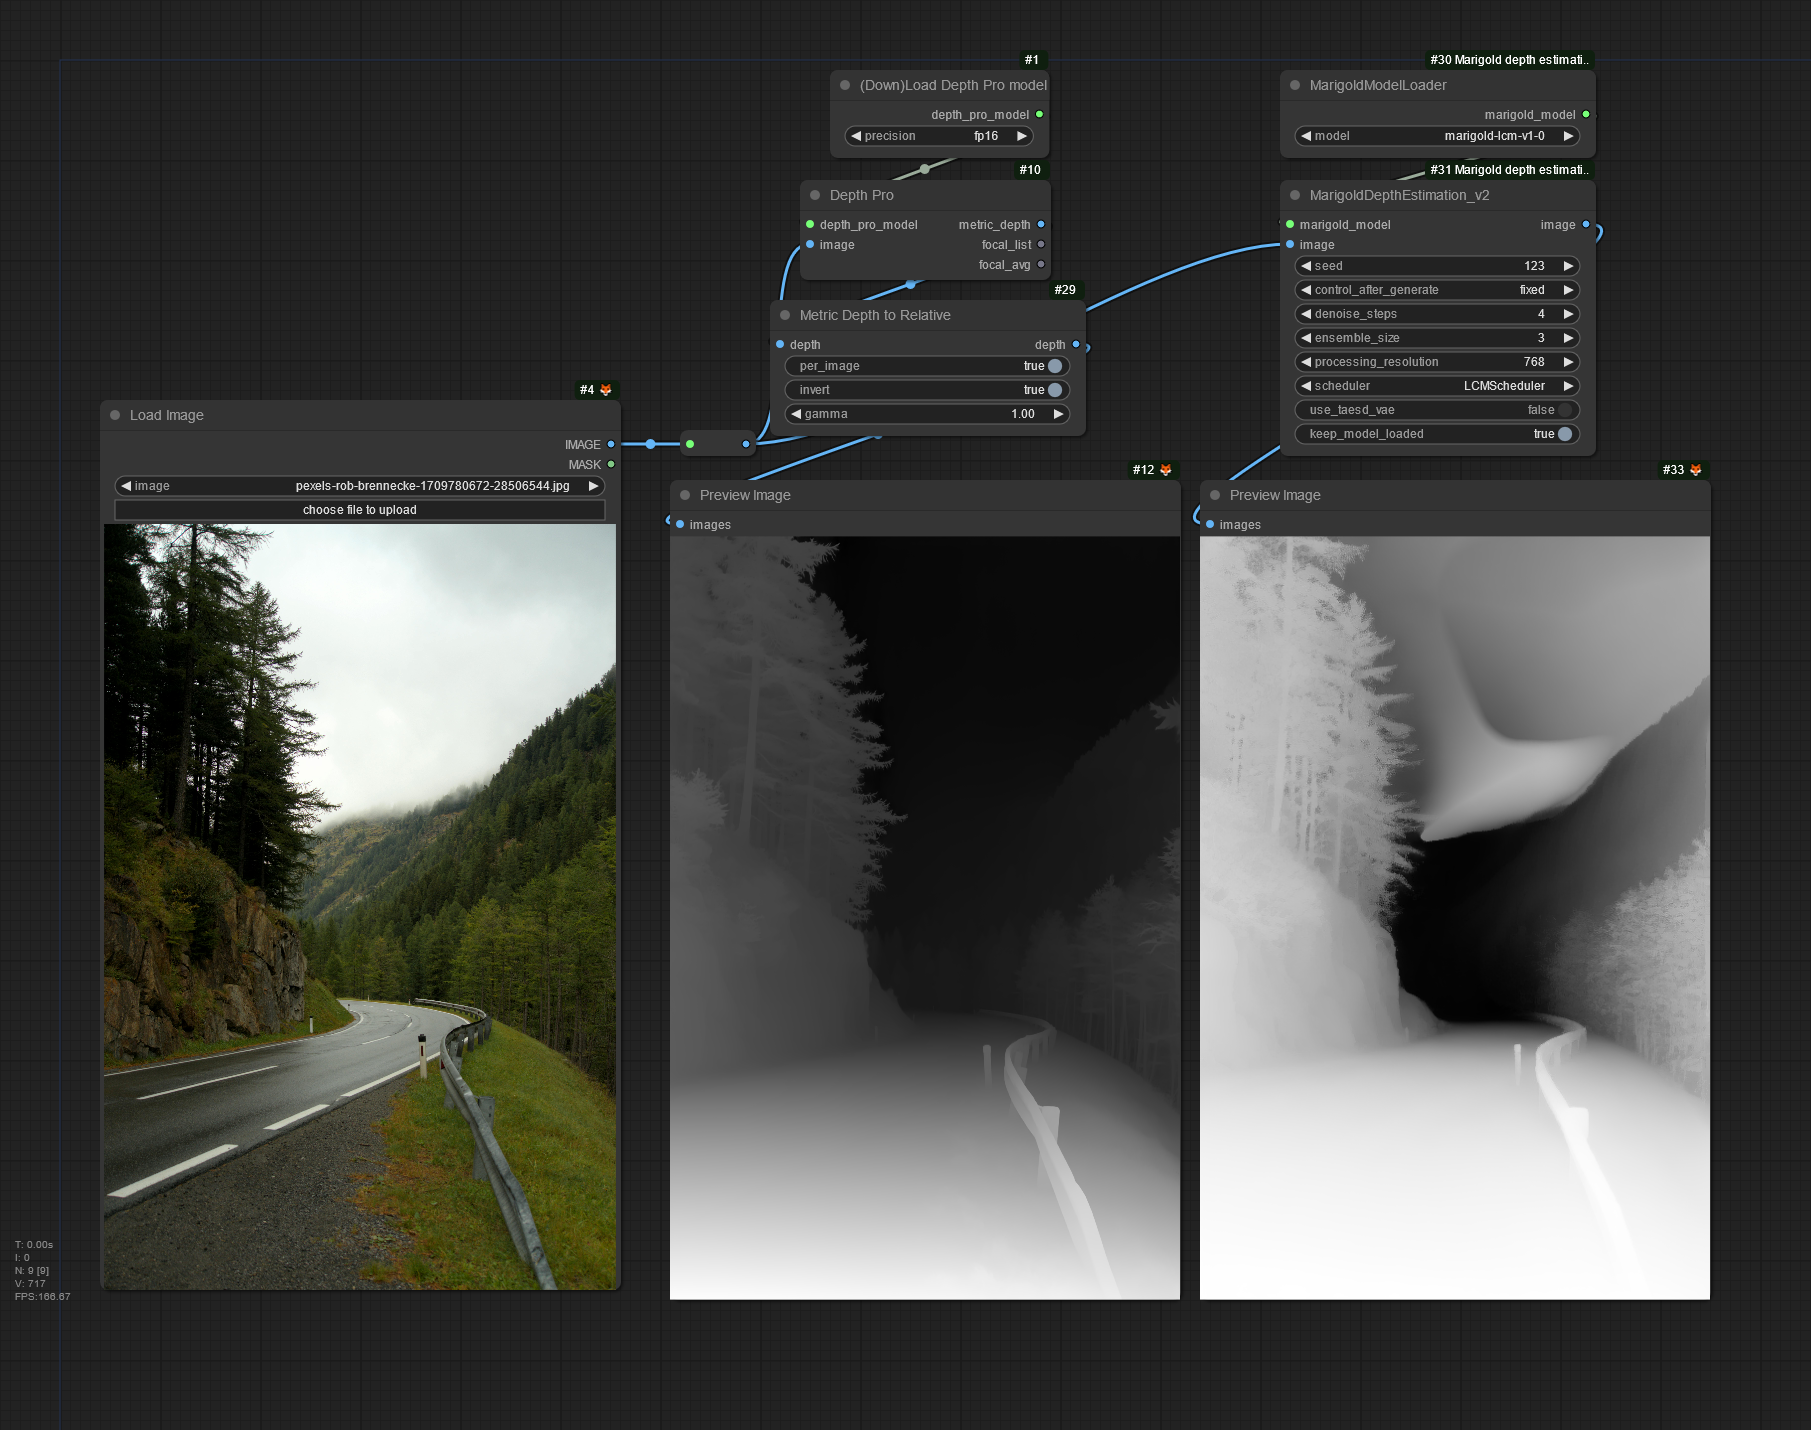
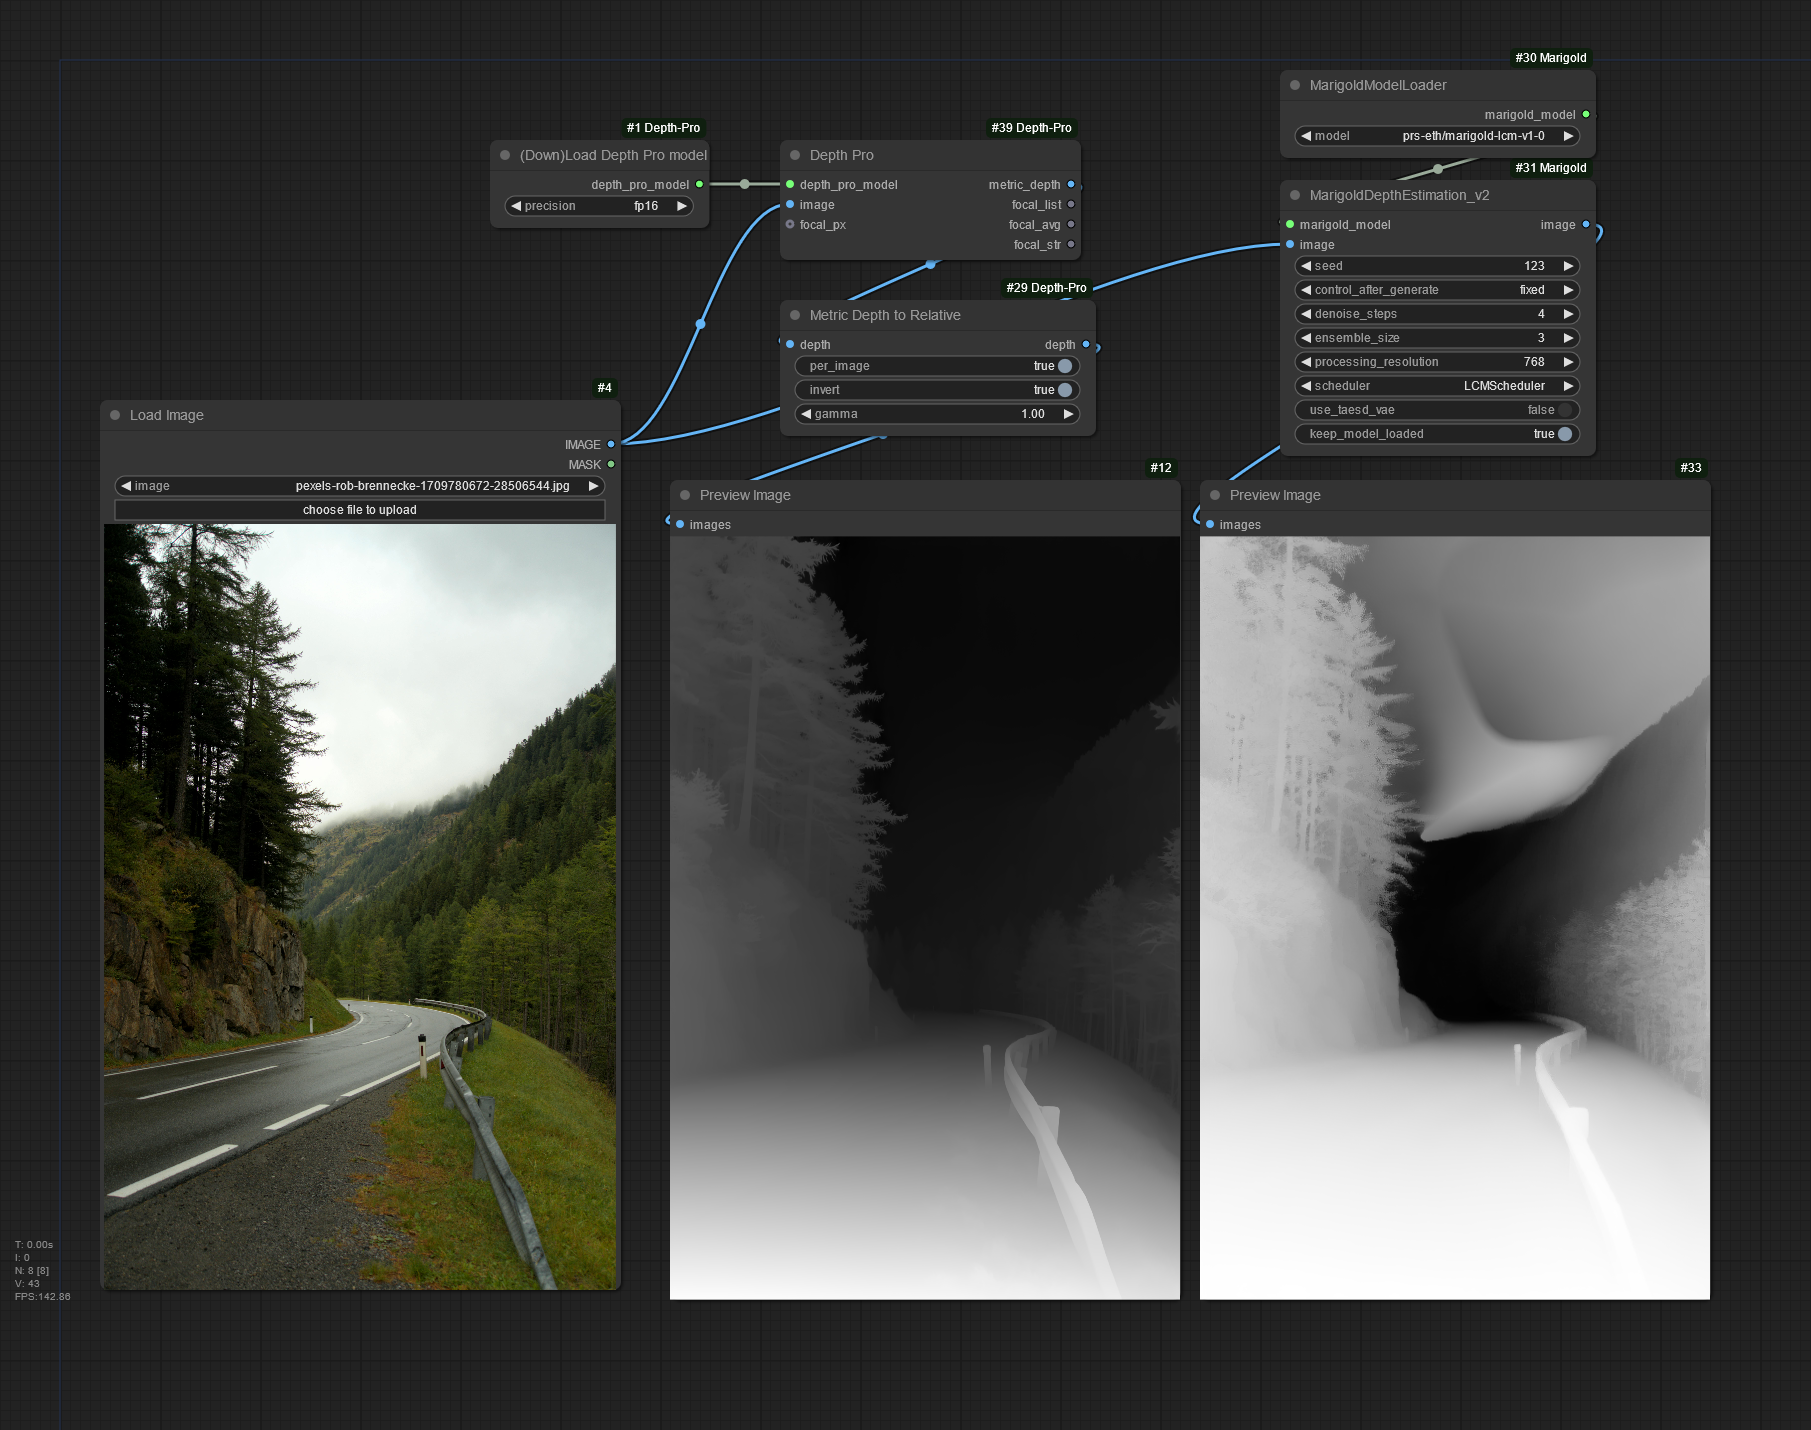
added more functionality around focal length

diff --git a/nodes.py b/nodes.py
@@ -59,14 +59,17 @@ class DepthPro:
                 "depth_pro_model": ("DEPTH_PRO_MODEL",),
                 "image": ("IMAGE",),
                 },
+            "optional": {
+                "focal_px": ("FLOAT", {"min": 0, "step": 0.01, "forceInput": True}),
+                }
             }
     
-    RETURN_TYPES = ("IMAGE", "LIST", "FLOAT",)
-    RETURN_NAMES = ("metric_depth", "focal_list", "focal_avg",)
+    RETURN_TYPES = ("IMAGE", "LIST", "FLOAT", "STRING",)
+    RETURN_NAMES = ("metric_depth", "focal_list", "focal_avg", "focal_str",)
     FUNCTION = "estimate_depth"
     CATEGORY = "Depth-Pro"
     
-    def estimate_depth(self, depth_pro_model, image):
+    def estimate_depth(self, depth_pro_model, image, focal_px=None):
         model = depth_pro_model["model"]
         device = depth_pro_model["device"]
         dtype = depth_pro_model["dtype"]
@@ -77,23 +80,28 @@ class DepthPro:
         rgb = rgb.movedim(-1, 1) # BCHW
         
         depth = []
-        focal_px = []
+        focal_list = []
+        if focal_px is not None:
+            if focal_px > 1:
+                focal_px = torch.tensor(focal_px)
+            else:
+                focal_px = None
         
         pbar = comfy.utils.ProgressBar(rgb.size(0)) if comfy.utils.PROGRESS_BAR_ENABLED else None
         for i in trange(rgb.size(0)):
             rgb_image = rgb[i, :3].unsqueeze(0).to(device, dtype=dtype)
             rgb_image = transform(rgb_image)
             
-            prediction = model.infer(rgb_image)
+            prediction = model.infer(rgb_image, f_px=focal_px)
             depth.append(prediction["depth"].unsqueeze(-1))
-            focal_px.append(prediction["focallength_px"].item())
+            focal_list.append(prediction["focallength_px"].item())
             if pbar is not None: pbar.update(1)
         
         depth = torch.stack(depth, dim=0).repeat(1,1,1,3)
-        focal_list = focal_px
-        focal_avg = np.mean(focal_px)
+        focal_avg = np.mean(focal_list)
+        focal_str = f"{focal_avg:0.2f}"
         
-        return (depth.to("cpu"), focal_list, focal_avg)
+        return (depth.to("cpu"), focal_list, focal_avg, focal_str)
 
 
 class MetricDepthToRelative:
@@ -150,11 +158,85 @@ class MetricDepthToInverse:
     def convert_depth(self, depth):
         return (1 / (1 + depth.detach().clone()), )
 
+
+class FocalFromList:
+    @classmethod
+    def INPUT_TYPES(s):
+        return {
+            "required": {
+                "focal_list": ("LIST",),
+                "batch_index": ("INT",),
+                },
+            }
+    
+    RETURN_TYPES = ("FLOAT", "STRING",)
+    RETURN_NAMES = ("focal", "focal_str",)
+    FUNCTION = "get_focal"
+    CATEGORY = "Depth-Pro"
+    
+    def get_focal(self, focal_list, batch_index):
+        idx = min(max(batch_index, 0), len(focal_list) - 1)
+        focal = focal_list[idx]
+        focal_str = f"{focal:0.2f}"
+        return (focal, focal_str)
+
+
+class FocalPXtoMM:
+    @classmethod
+    def INPUT_TYPES(s):
+        return {
+            "required": {
+                "focal_px": ("FLOAT", {"default": 1000, "min": 0.01, "step": 0.01,}),
+                "sensor_mm": ("FLOAT", {"default": 24.576, "min": 0.001, "step": 0.001,}),
+                "image_width": ("INT", {"default": 1024, "min": 1,}),
+                "image_height": ("INT", {"default": 1, "min": 1,}),
+                },
+            }
+    
+    RETURN_TYPES = ("FLOAT", "STRING",)
+    RETURN_NAMES = ("focal_mm", "focal_str",)
+    FUNCTION = "get_focal"
+    CATEGORY = "Depth-Pro"
+    
+    def get_focal(self, focal_px, sensor_mm, image_width, image_height):
+        sensor_px = max(image_width, image_height)
+        focal_mm = focal_px * sensor_mm / sensor_px
+        focal_str = f"{focal_mm:0.2f}"
+        return (focal_mm, focal_str)
+
+
+class FocalMMtoPX:
+    @classmethod
+    def INPUT_TYPES(s):
+        return {
+            "required": {
+                "focal_mm": ("FLOAT", {"default": 50, "min": 0.01, "step": 0.01,}),
+                "sensor_mm": ("FLOAT", {"default": 24.576, "min": 0.001, "step": 0.001,}),
+                "image_width": ("INT", {"default": 1024, "min": 1,}),
+                "image_height": ("INT", {"default": 1, "min": 1,}),
+                },
+            }
+    
+    RETURN_TYPES = ("FLOAT", "STRING",)
+    RETURN_NAMES = ("focal_px", "focal_str",)
+    FUNCTION = "get_focal"
+    CATEGORY = "Depth-Pro"
+    
+    def get_focal(self, focal_mm, sensor_mm, image_width, image_height):
+        sensor_px = max(image_width, image_height)
+        focal_px = focal_mm * sensor_px / sensor_mm
+        focal_str = f"{focal_px:0.2f}"
+        return (focal_px, focal_str)
+
+
 NODE_CLASS_MAPPINGS = {
     "LoadDepthPro": LoadDepthPro,
     "DepthPro": DepthPro,
     "MetricDepthToRelative": MetricDepthToRelative,
     "MetricDepthToInverse": MetricDepthToInverse,
+    "FocalFromList": FocalFromList,
+    "FocalPXtoMM": FocalPXtoMM,
+    "FocalMMtoPX": FocalMMtoPX,
     }
 
 NODE_DISPLAY_NAME_MAPPINGS = {
@@ -162,4 +244,7 @@ NODE_DISPLAY_NAME_MAPPINGS = {
     "DepthPro": "Depth Pro",
     "MetricDepthToRelative": "Metric Depth to Relative",
     "MetricDepthToInverse": "Metric Depth to Inverse",
+    "FocalFromList": "Focal from List",
+    "FocalPXtoMM": "Focal PX to MM",
+    "FocalMMtoPX": "Focal MM to PX",
     }
